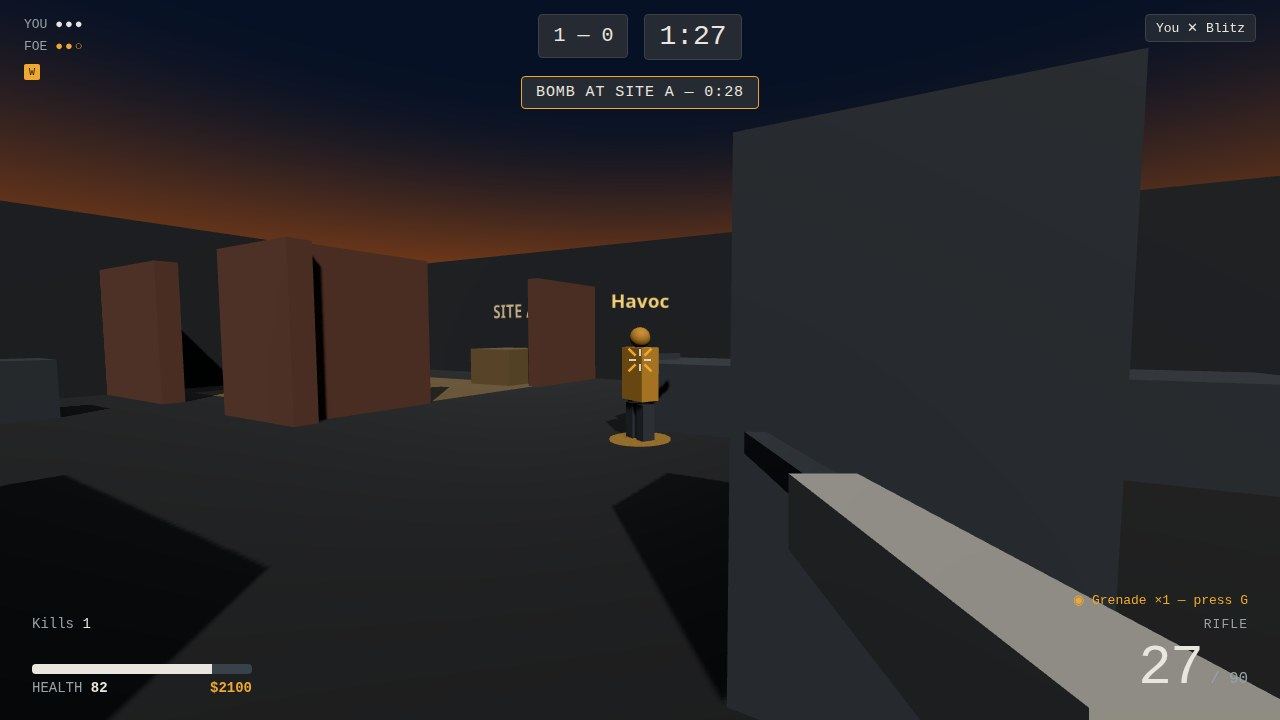
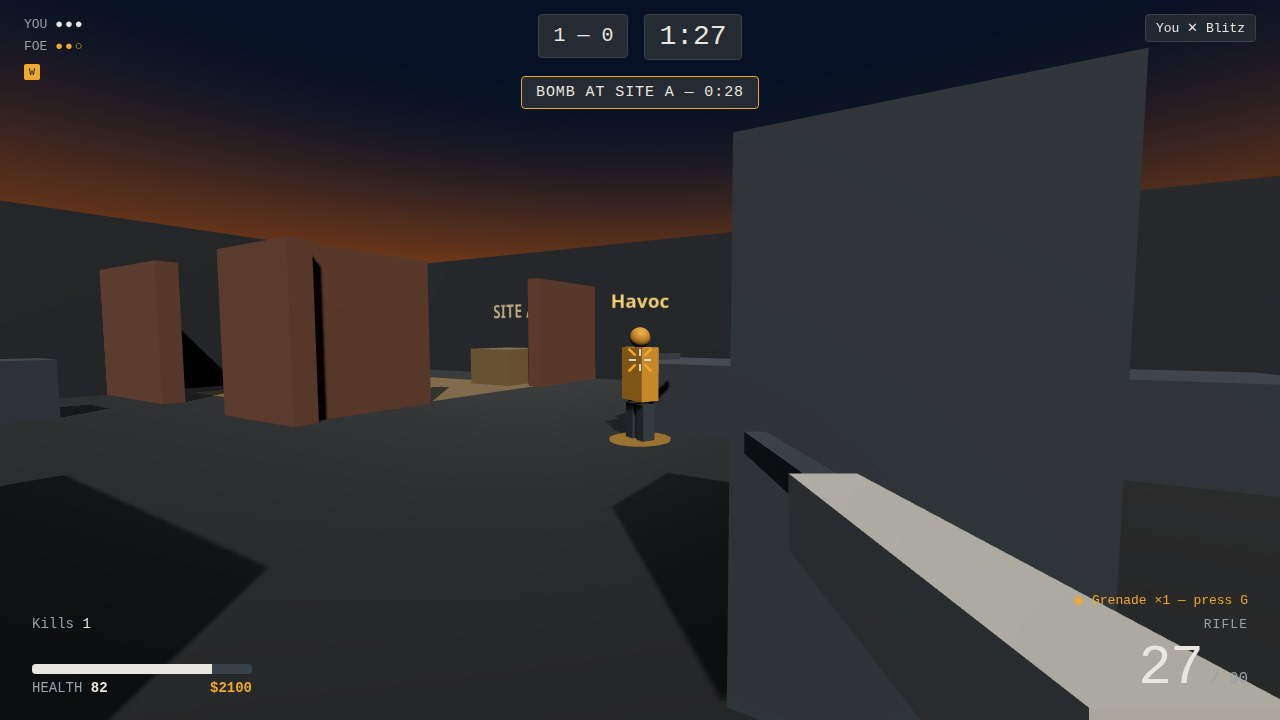
Foundry Yard v3: four screenshots, defuse moment, brighter staged captures
- New 3-defuse.jpg: bomb planted at Site A, 0:12 left, player mid-defuse
  (55%) with shotgun out, round 5, blue up 3-2, banner + kill feed visible
- Shots re-staged for contact-sheet legibility: shot-only light/exposure
  lift (hemi 2.2, key 3.8, fill 1.6, exposure 1.25); live play untouched
- Fixed transient HUD elements fading before slow headless captures:
  killFeed takes a holdMs, banner/feed/hit-marker pinned 60s in shots
- Title drops the commercial-game comparison (now plain tactical FPS)
- shots.json now lists all four: start, play, defuse, end

Changed region(s): [[0.625, 0.6417, 1.0, 1.0], [0.4688, 0.4583, 0.5312, 0.55], [0.3438, 0.5194, 0.375, 0.55]]

diff --git a/game/src/main.js b/game/src/main.js
@@ -1,8 +1,9 @@
 // Boot and the one loop: a fixed 60 Hz simulation feeding a render at the display's rate.
 // Foundry Yard: you plus two friendly bots against three enemy bots, rounds, money,
 // buy menu, a bomb to plant and defuse, and grenades.
-// ?shot=start|play|end with &seed=N sets up a deterministic frame for a capture, renders it
-// twice, then freezes it and sets window.__shotReady.
+// ?shot=start|play|defuse|end with &seed=N sets up a deterministic frame for a capture, renders it
+// twice, then freezes it and sets window.__shotReady. start = title + buy menu,
+// play = live combat with HUD, defuse = bomb defusal at Site A, end = match result + restart.
 import * as THREE from 'three';
 import { PALETTE } from './palette.js';
 import { createWorld } from './world.js';
@@ -535,6 +536,13 @@ function settle(steps) {
 function runShot(name) {
   hud.hideOverlay();
   hud.hideBuyMenu();
+  // Shots are staged to read at contact-sheet size: lift the lights and the
+  // exposure so the yard, the sites and the HUD are legible when shrunk.
+  // This runs only for ?shot= captures; live play is untouched.
+  world.lights.hemi.intensity = 2.2;
+  world.lights.key.intensity = 3.8;
+  world.lights.fill.intensity = 1.6;
+  renderer.toneMappingExposure = 1.25;
   body.pitch = 0;
   body.yaw = 0;
   bots.setPositionsForShot();
@@ -590,6 +598,51 @@ function runShot(name) {
     hud.setGrenades(1);
     hud.setBombStatus('BOMB AT SITE A — 0:28', false);
     hud.setAmmo(weapon.state.mag, weapon.state.reserve, weapon.stats.name);
+    // The kill feed and hit marker fade in seconds, but a headless capture
+    // takes much longer: re-pin them so they are still on screen for the shot.
+    hud.killFeed('You ✕ Blitz', 'blue', 60000);
+    hud.hitMarker(true, 60000);
+  } else if (name === 'defuse') {
+    // Defusal at Site A: the bomb is planted with 12 seconds left, Rook fell
+    // clearing the site, and the player is on the bomb halfway through the
+    // defuse. Shotgun out, round 5, blue up 3 — 2. The banner, the bomb line
+    // and the kill feed together show the objective loop in one frame.
+    weapon.equip('shotgun');
+    rounds.state.phase = 'combat';
+    rounds.state.phaseTime = 12;
+    rounds.state.round = 5;
+    rounds.state.wins = { blue: 3, red: 2 };
+    rounds.state.money = 3400;
+    rounds.state.history = ['W', 'L', 'W', 'W'];
+    rounds.state.grenades = 0;
+    const rook = bots.bots.find((b) => b.name === 'Rook');
+    if (rook) {
+      rook.alive = false;
+      rook.fall = 1;
+      rook.group.rotation.x = -1.45;
+      rook.group.position.y = -0.08;
+    }
+    body.position.set(-11.6, 0, -8.3);
+    settle(20);
+    // The bomb is planted at Site A: stand by it and defuse.
+    bomb.debugPlant('A', -13, -9.5, 12);
+    bomb.state.defuseProgress = 0.55;
+    aimAt(new THREE.Vector3(-13, 0.6, -9.5));
+    playerHealth = 58;
+    hud.setHealth(58);
+    hud.setMoney(3400);
+    hud.setTimer(12);
+    hud.setRoundScore(3, 2, 5);
+    hud.setTeams(3, 2);
+    hud.setScore(4);
+    hud.setRoundHistory(['W', 'L', 'W', 'W']);
+    hud.setGrenades(0);
+    hud.setBombStatus('BOMB AT SITE A — 0:12 — DEFUSING 55%', true);
+    hud.setAmmo(weapon.state.mag, weapon.state.reserve, weapon.stats.name);
+    // Long holds: a headless capture takes many seconds, and the banner and
+    // feed would otherwise fade before the screenshot is taken.
+    hud.killFeed('You ✕ Rook', 'blue', 60000);
+    hud.showBanner('DEFUSING THE BOMB', 'Hold steady — 4 seconds to disarm.', 60000);
   } else {
     // Match end: blue takes the match 5 — 2. The overlay shows the result, the
     // player's score and the restart button — the whole loop in one frame.

diff --git a/game/src/hud.js b/game/src/hud.js
@@ -170,11 +170,13 @@ export function createHud() {
       clearTimeout(damageTimer);
       damageTimer = setTimeout(() => damageDir.classList.remove('on'), 700);
     },
-    killFeed(text, killerTeam) {
+    // Staged captures hold the feed longer than live play: a headless capture
+    // can take many seconds between the kill and the screenshot.
+    killFeed(text, killerTeam, holdMs = 5000) {
       const item = el('div', `feed-item ${killerTeam === 'blue' ? 'feed-blue' : 'feed-red'}`, text);
       killfeed.prepend(item);
       while (killfeed.children.length > 5) killfeed.removeChild(killfeed.lastChild);
-      setTimeout(() => { if (item.parentNode) item.remove(); }, 5000);
+      setTimeout(() => { if (item.parentNode) item.remove(); }, holdMs);
     },
     showBanner(titleText, subText, holdMs = 2600) {
       bannerTitle.textContent = titleText;

diff --git a/game/index.html b/game/index.html
@@ -4,7 +4,7 @@
 <meta charset="utf-8">
 <meta name="viewport" content="width=device-width, initial-scale=1">
 <link rel="icon" href="data:,">
-<title>Foundry Yard — a three.js Counter-Strike-style tactical FPS</title>
+<title>Foundry Yard — a three.js tactical FPS</title>
 <style>
   /* Look plan: canvas, surface, hairline, ink, muted and one accent, plus the two
      site colours. Every colour below is one of the named palette values. */

diff --git a/game/src/world.js b/game/src/world.js
@@ -198,5 +198,5 @@ export function createWorld(scene) {
   fill.position.set(-12, 10, -14);
   scene.add(fill);
 
-  return { colliders, shootables, group, sites: SITES };
+  return { colliders, shootables, group, sites: SITES, lights: { hemi, key, fill } };
 }
